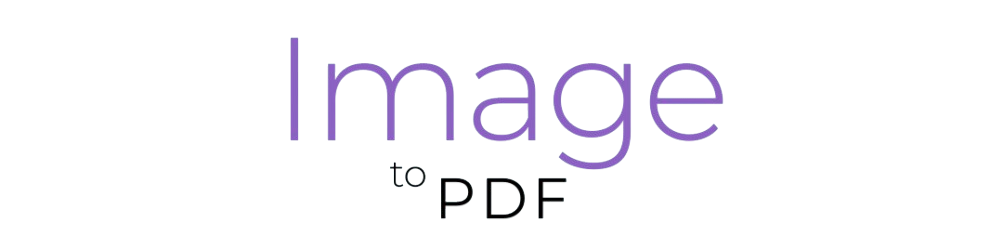
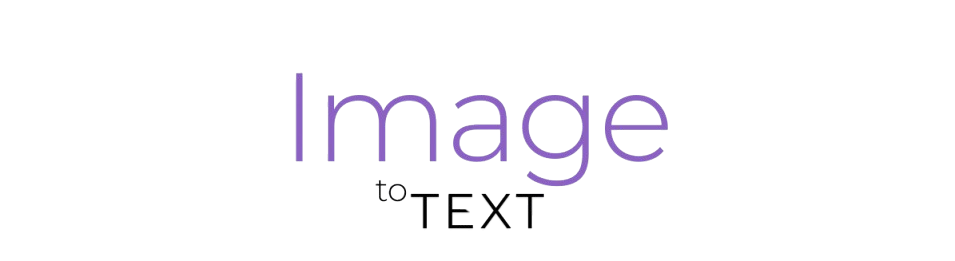
clipboard and clear button activated, implemented loader, image to pdf changed to image to text

Changed region(s): [[0.2733, 0.1406, 0.7288, 0.8996]]

diff --git a/src/app/common/loader/loader.component.scss b/src/app/common/loader/loader.component.scss
@@ -1,0 +1,87 @@
+.loader {
+    transform: rotateZ(45deg);
+    perspective: 1000px;
+    border-radius: 50%;
+    width: 48px;
+    height: 48px;
+    color: #fff;
+  }
+    .loader:before,
+    .loader:after {
+      content: '';
+      display: block;
+      position: absolute;
+      top: 0;
+      left: 0;
+      width: inherit;
+      height: inherit;
+      border-radius: 50%;
+      transform: rotateX(70deg);
+      animation: 1s spin linear infinite;
+    }
+    .loader:after {
+      color: #FF3D00;
+      transform: rotateY(70deg);
+      animation-delay: .4s;
+    }
+
+  @keyframes rotate {
+    0% {
+      transform: translate(-50%, -50%) rotateZ(0deg);
+    }
+    100% {
+      transform: translate(-50%, -50%) rotateZ(360deg);
+    }
+  }
+
+  @keyframes rotateccw {
+    0% {
+      transform: translate(-50%, -50%) rotate(0deg);
+    }
+    100% {
+      transform: translate(-50%, -50%) rotate(-360deg);
+    }
+  }
+
+  @keyframes spin {
+    0%,
+    100% {
+      box-shadow: .2em 0px 0 0px currentcolor;
+    }
+    12% {
+      box-shadow: .2em .2em 0 0 currentcolor;
+    }
+    25% {
+      box-shadow: 0 .2em 0 0px currentcolor;
+    }
+    37% {
+      box-shadow: -.2em .2em 0 0 currentcolor;
+    }
+    50% {
+      box-shadow: -.2em 0 0 0 currentcolor;
+    }
+    62% {
+      box-shadow: -.2em -.2em 0 0 currentcolor;
+    }
+    75% {
+      box-shadow: 0px -.2em 0 0 currentcolor;
+    }
+    87% {
+      box-shadow: .2em -.2em 0 0 currentcolor;
+    }
+  }
+
+  .loader-overlay {
+    position: fixed;
+    top: 0;
+    left: 0;
+    width: 100%;
+    height: 100%;
+    background: rgba(0, 0, 0, 0.5);
+    color: white;
+    font-size: 2rem;
+    display: flex;
+    justify-content: center;
+    align-items: center;
+    z-index: 1000;
+  }

diff --git a/src/app/covert/covert.component.html b/src/app/covert/covert.component.html
@@ -13,7 +13,7 @@
                         <div>
                             <p-toast />
                             <p-fileUpload name="demo[]" url="https://www.primefaces.org/cdn/api/upload.php"
-                                (onUpload)="onUpload($event)" [multiple]="true" accept="image/*" maxFileSize="1049000">
+                                (onUpload)="onUpload($event)" (clear)="clearAll()" [multiple]="true" accept="image/*" maxFileSize="1049000">
                                 <ng-template pTemplate="content">
                                     <ul *ngIf="uploadedFiles.length">
                                         <li *ngFor="let file of uploadedFiles">
@@ -38,13 +38,13 @@
                     <div class="d-flex justify-content-between align-items-center p-2">
                         <em>Your result will be displayed here.</em>
                         <div class="btn-group btn-group-sm">
-                            <button class="btn btn-outline-secondary" (click)="clear()">
+                            <button class="btn btn-outline-secondary" (click)="clipBoard()" [disabled]="!parsedText" >
                                 Copy Clipboard
                             </button>
                             <button class="btn btn-outline-secondary">
                                 Print
                             </button>
-                            <button class="btn btn-outline-secondary" (click)="clear()">
+                            <button class="btn btn-outline-secondary" (click)="clear()" [disabled]="!parsedText">
                                 Clear
                             </button>
                         </div>

diff --git a/src/app/covert/covert.component.ts b/src/app/covert/covert.component.ts
@@ -9,6 +9,7 @@ import { FileUploadModule } from 'primeng/fileupload';
 import { HttpClientModule } from '@angular/common/http';
 import { OcrService } from '../services/ocr.service';
 import { slideInLeft, slideInRight, slideUp } from '../animation';
+import { MatSnackBar } from '@angular/material/snack-bar';
 @Component({
   selector: 'app-covert',
   standalone: true,
@@ -30,7 +31,11 @@ import { slideInLeft, slideInRight, slideUp } from '../animation';
 export class CovertComponent {
   uploadedFiles: any[] = [];
   parsedText = ''
-  constructor(private messageService: MessageService, private _ocrService: OcrService) { }
+  constructor(
+    private messageService: MessageService,
+    private _ocrService: OcrService,
+    private snackBar : MatSnackBar
+    ) { }
 
   onUpload(event: any) {
     for (let file of event.files) {
@@ -48,6 +53,32 @@ export class CovertComponent {
   }
 
   clear() {
+    this.parsedText = ''
+  }
+
+  clipBoard() {
+    navigator.clipboard.writeText(this.parsedText).then(
+      () => {
+        this.snackBar.open('Text copied to clipboard.', 'Close', {
+          duration: 5000,
+          horizontalPosition: 'right',
+          verticalPosition: 'top',
+        });
+        console.log('Text copied to clipboard');
+      },
+      (err) => {
+        this.snackBar.open('Failed to copy text.', 'Close', {
+          duration: 5000,
+          horizontalPosition: 'right',
+          verticalPosition: 'top',
+        });
+        console.error('Failed to copy text: ', err);
+      }
+    );
+  }
+
+  clearAll(){
+    this.uploadedFiles = []
     this.parsedText = ''
   }
 }

diff --git a/src/app/app.config.ts b/src/app/app.config.ts
@@ -6,6 +6,7 @@ import { provideAnimationsAsync } from '@angular/platform-browser/animations/asy
 import { httpInterceptor } from './interceptors/http.interceptor';
 import { provideHttpClient, withInterceptors } from '@angular/common/http';
 import { errorInterceptorInterceptor } from './interceptors/error-interceptor.interceptor';
+import { loaderInterceptor } from './interceptors/loader-interceptor';
 
 export const appConfig: ApplicationConfig = {
   providers: [
@@ -13,7 +14,7 @@ export const appConfig: ApplicationConfig = {
     provideRouter(routes),
     provideAnimationsAsync(),
     provideHttpClient(
-      withInterceptors([httpInterceptor,errorInterceptorInterceptor])
+      withInterceptors([httpInterceptor,errorInterceptorInterceptor,loaderInterceptor])
     )
   ],
 };

diff --git a/src/app/common/loader/loader.component.spec.ts b/src/app/common/loader/loader.component.spec.ts
@@ -1,0 +1,23 @@
+import { ComponentFixture, TestBed } from '@angular/core/testing';
+
+import { LoaderComponent } from './loader.component';
+
+describe('LoaderComponent', () => {
+  let component: LoaderComponent;
+  let fixture: ComponentFixture<LoaderComponent>;
+
+  beforeEach(async () => {
+    await TestBed.configureTestingModule({
+      imports: [LoaderComponent]
+    })
+    .compileComponents();
+
+    fixture = TestBed.createComponent(LoaderComponent);
+    component = fixture.componentInstance;
+    fixture.detectChanges();
+  });
+
+  it('should create', () => {
+    expect(component).toBeTruthy();
+  });
+});

diff --git a/src/app/interceptors/loader-interceptor.ts b/src/app/interceptors/loader-interceptor.ts
@@ -1,0 +1,15 @@
+// loader.interceptor.ts
+import { HttpInterceptorFn } from '@angular/common/http';
+import { inject } from '@angular/core';
+import { finalize } from 'rxjs/operators';
+import { LoaderService } from '../common/loader/loader.service';
+
+export const loaderInterceptor: HttpInterceptorFn = (req, next) => {
+    console.log("loading interceptor calles...")
+  const loaderService = inject(LoaderService);
+  loaderService.show();
+
+  return next(req).pipe(
+    finalize(() => loaderService.hide())  // Hide loader when the request completes
+  );
+};

diff --git a/src/app/common/loader/loader.component.ts b/src/app/common/loader/loader.component.ts
@@ -1,0 +1,21 @@
+import { Component, OnInit } from '@angular/core';
+import { LoaderService } from './loader.service';
+import { CommonModule } from '@angular/common';
+
+@Component({
+  selector: 'app-loader',
+  standalone: true,
+  imports: [CommonModule],
+  templateUrl: './loader.component.html',
+  styleUrl: './loader.component.scss'
+})
+export class LoaderComponent {
+  
+  isLoading:any
+  constructor(private loaderService: LoaderService) {}
+  
+  ngOnInit(){
+    this.isLoading = this.loaderService.isLoading$;
+
+  }
+}

diff --git a/src/app/app.component.ts b/src/app/app.component.ts
@@ -1,11 +1,12 @@
 import { Component } from '@angular/core';
 import { RouterOutlet } from '@angular/router';
 import { CommonModule } from '@angular/common';
+import { LoaderComponent } from './common/loader/loader.component';
 
 @Component({
   selector: 'app-root',
   standalone: true,
-  imports: [RouterOutlet],
+  imports: [RouterOutlet,LoaderComponent],
   templateUrl: './app.component.html',
   styleUrl: './app.component.scss',
 })

diff --git a/src/app/common/loader/loader.service.ts b/src/app/common/loader/loader.service.ts
@@ -1,0 +1,19 @@
+import { Injectable } from '@angular/core';
+import { BehaviorSubject } from 'rxjs';
+
+@Injectable({
+  providedIn: 'root'
+})
+export class LoaderService {
+
+  private loadingSubject = new BehaviorSubject<boolean>(false);
+  public isLoading$ = this.loadingSubject.asObservable();
+
+  show() {
+    this.loadingSubject.next(true);
+  }
+
+  hide() {
+    this.loadingSubject.next(false);
+  }
+}

diff --git a/src/app/common/loader/loader.service.spec.ts b/src/app/common/loader/loader.service.spec.ts
@@ -1,0 +1,16 @@
+import { TestBed } from '@angular/core/testing';
+
+import { LoaderService } from './loader.service';
+
+describe('LoaderService', () => {
+  let service: LoaderService;
+
+  beforeEach(() => {
+    TestBed.configureTestingModule({});
+    service = TestBed.inject(LoaderService);
+  });
+
+  it('should be created', () => {
+    expect(service).toBeTruthy();
+  });
+});

diff --git a/src/app/app.component.html b/src/app/app.component.html
@@ -1,4 +1,5 @@
 <div class="BGimage" [style.background-image]="'url(03.webp)'">
     <!-- <div [style.background-image]="'url(8150248.jpg)'"> -->
+        <app-loader></app-loader>
     <router-outlet></router-outlet>
 </div>

diff --git a/src/app/common/loader/loader.component.html b/src/app/common/loader/loader.component.html
@@ -1,0 +1,3 @@
+<div *ngIf="isLoading | async" class="loader-overlay">
+    <span class="loader"></span>
+</div>
